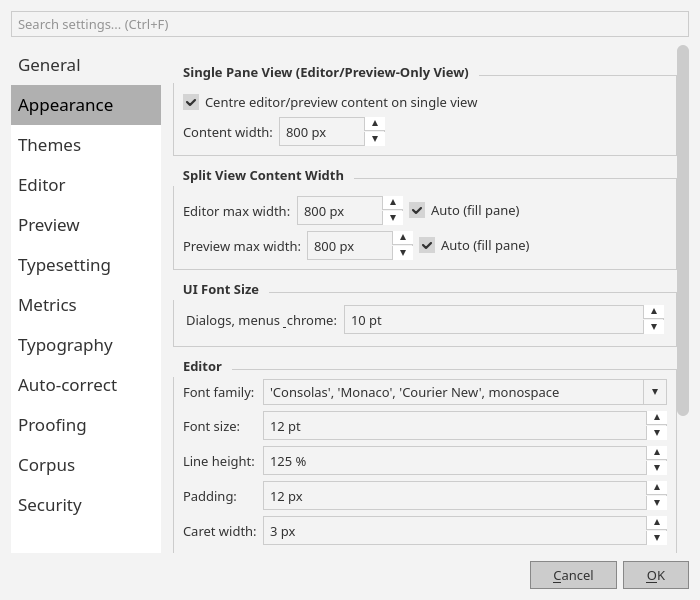
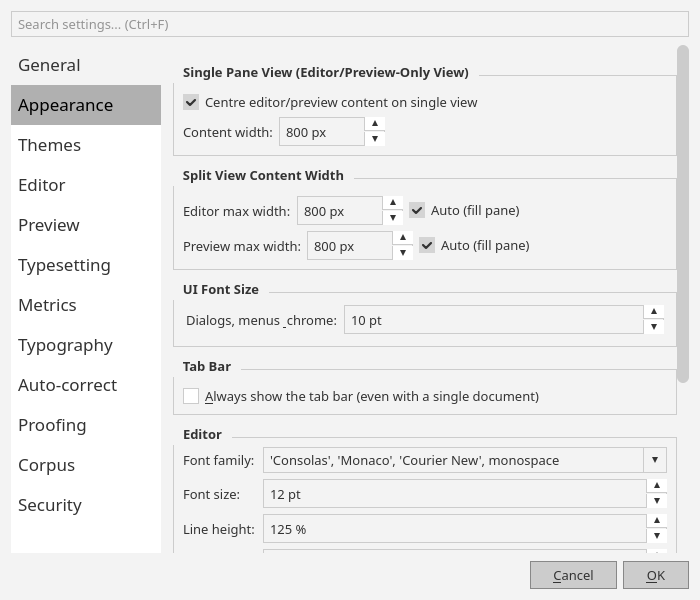
feat(prefs): option to keep the tab bar visible with a single tab
Add a Preferences → Appearance → Tab Bar checkbox (tabBarAlwaysShow,
default off). updateTabBarVisibility() now honours it, and the
preferences accept path re-applies visibility so toggling takes effect
immediately. Add DirtyOnLoadTest coverage for both default-hidden and
always-show behaviour.

diff --git a/tests/test_dirty_on_load.cpp b/tests/test_dirty_on_load.cpp
@@ -331,6 +331,48 @@ TEST_F(DirtyOnLoadTest, LineHeightPreferenceChangePreservesDirtyAndUndoClears) {
         << "undoing the edit returns to the saved content even after a format op";
 }
 
+// The tab bar is hidden with a single tab unless the "Always show the tab bar"
+// preference (tabBarAlwaysShow) is on; it becomes visible once a second file is
+// opened. updateTabBarVisibility() is re-invoked on tab add/remove and on
+// preferences accept, so both paths are exercised here.
+TEST_F(DirtyOnLoadTest, TabBarHiddenWithSingleTabByDefault) {
+    QSettings s;
+    s.remove(Preferences::TabBarAlwaysShow);
+
+    window = new MainWindow();
+    QApplication::processEvents();
+    window->show();
+    QApplication::processEvents();
+
+    auto *tabs = window->findChild<QTabBar *>();
+    ASSERT_NE(tabs, nullptr);
+    EXPECT_FALSE(tabs->isVisible());
+
+    QTemporaryFile secondFile;
+    ASSERT_TRUE(secondFile.open());
+    secondFile.write("second file content\n");
+    secondFile.close();
+
+    window->loadFile(tmpFile->fileName());
+    window->loadFile(secondFile.fileName());
+    QApplication::processEvents();
+    EXPECT_TRUE(tabs->isVisible()) << "tab bar must appear with two tabs";
+}
+
+TEST_F(DirtyOnLoadTest, TabBarAlwaysShowKeepsTabBarVisibleWithSingleTab) {
+    QSettings s;
+    s.setValue(Preferences::TabBarAlwaysShow, true);
+
+    window = new MainWindow();
+    QApplication::processEvents();
+    window->show();
+    QApplication::processEvents();
+
+    auto *tabs = window->findChild<QTabBar *>();
+    ASSERT_NE(tabs, nullptr);
+    EXPECT_TRUE(tabs->isVisible()) << "tab bar must stay visible with one tab when preferred";
+}
+
 int main(int argc, char **argv) {
     QApplication app(argc, argv);
     setupTestConfig();

diff --git a/src/PreferencesPagesAppearance.cpp b/src/PreferencesPagesAppearance.cpp
@@ -108,6 +108,16 @@ void PreferencesDialog::setupAppearancePage()
 
         layout->addWidget(uiFontGroup);
 
+        QGroupBox *tabBarGroup = new QGroupBox("Tab Bar");
+        QVBoxLayout *tabBarLayout = new QVBoxLayout(tabBarGroup);
+        tabBarLayout->addSpacing(8);
+
+        m_tabBarAlwaysShowCheck = new QCheckBox("&Always show the tab bar (even with a single document)");
+        m_tabBarAlwaysShowCheck->setChecked(settings.value(Preferences::TabBarAlwaysShow, false).toBool());
+        tabBarLayout->addWidget(m_tabBarAlwaysShowCheck);
+
+        layout->addWidget(tabBarGroup);
+
         QGroupBox *editorGroup = new QGroupBox("Editor");
         QFormLayout *editorLayout = new QFormLayout(editorGroup);
 

diff --git a/src/PreferencesDialog.cpp b/src/PreferencesDialog.cpp
@@ -224,6 +224,7 @@ void PreferencesDialog::setupUi(const QString &themeBgColor, const QString &them
         settings.setValue(Preferences::AutoCorrectPairs, autoCorrectPairs);
         settings.setValue(Preferences::CentreSingleViewContent, m_centreSingleViewCheck->isChecked());
         settings.setValue(Preferences::CentreSingleViewWidth, m_centreSingleViewWidthSpin->value());
+        settings.setValue(Preferences::TabBarAlwaysShow, m_tabBarAlwaysShowCheck->isChecked());
         if (m_showPageBreaksCheck)
             settings.setValue(Preferences::PreviewShowPageBreaks, m_showPageBreaksCheck->isChecked());
         settings.setValue(Preferences::SplitViewEditorMaxWidth,

diff --git a/src/MainWindow.cpp b/src/MainWindow.cpp
@@ -605,6 +605,7 @@ void MainWindow::showPreferences()
         applyPreviewSplitWidth();
         if (m_showPageBreaksAction)
             m_showPageBreaksAction->setChecked(s.value(Preferences::PreviewShowPageBreaks, false).toBool());
+        updateTabBarVisibility();
         updatePreview();
 
         int interval = s.value(Preferences::AutoSaveInterval, 0).toInt();
@@ -742,5 +743,6 @@ void MainWindow::updateStats()
 
 void MainWindow::updateTabBarVisibility()
 {
-    m_tabBar->setVisible(m_tabs.size() > 1);
+    const bool alwaysShow = QSettings().value(Preferences::TabBarAlwaysShow, false).toBool();
+    m_tabBar->setVisible(alwaysShow || m_tabs.size() > 1);
 }

diff --git a/src/Preferences.h b/src/Preferences.h
@@ -45,6 +45,7 @@ namespace Preferences {
     constexpr const char *EmojiAutoComplete = "emojiAutoComplete";
     constexpr const char *EmojiCompletionLimit = "emojiCompletionLimit";
     constexpr const char *CentreSingleViewContent = "centreSingleViewContent";
+    constexpr const char *TabBarAlwaysShow = "tabBarAlwaysShow";
     constexpr const char *CentreSingleViewWidth = "centreSingleViewWidth";
     constexpr const char *SplitViewEditorMaxWidth = "splitViewEditorMaxWidth";
     constexpr const char *SplitViewPreviewMaxWidth = "splitViewPreviewMaxWidth";

diff --git a/src/PreferencesDialog.h b/src/PreferencesDialog.h
@@ -173,6 +173,7 @@ private:
     QLineEdit *m_printSizeEdit = nullptr;
     QCheckBox *m_centreSingleViewCheck;
     QSpinBox *m_centreSingleViewWidthSpin;
+    QCheckBox *m_tabBarAlwaysShowCheck = nullptr;
     QCheckBox *m_showPageBreaksCheck = nullptr;
     QCheckBox *m_splitEditorAutoCheck;
     QCheckBox *m_splitPreviewAutoCheck;
